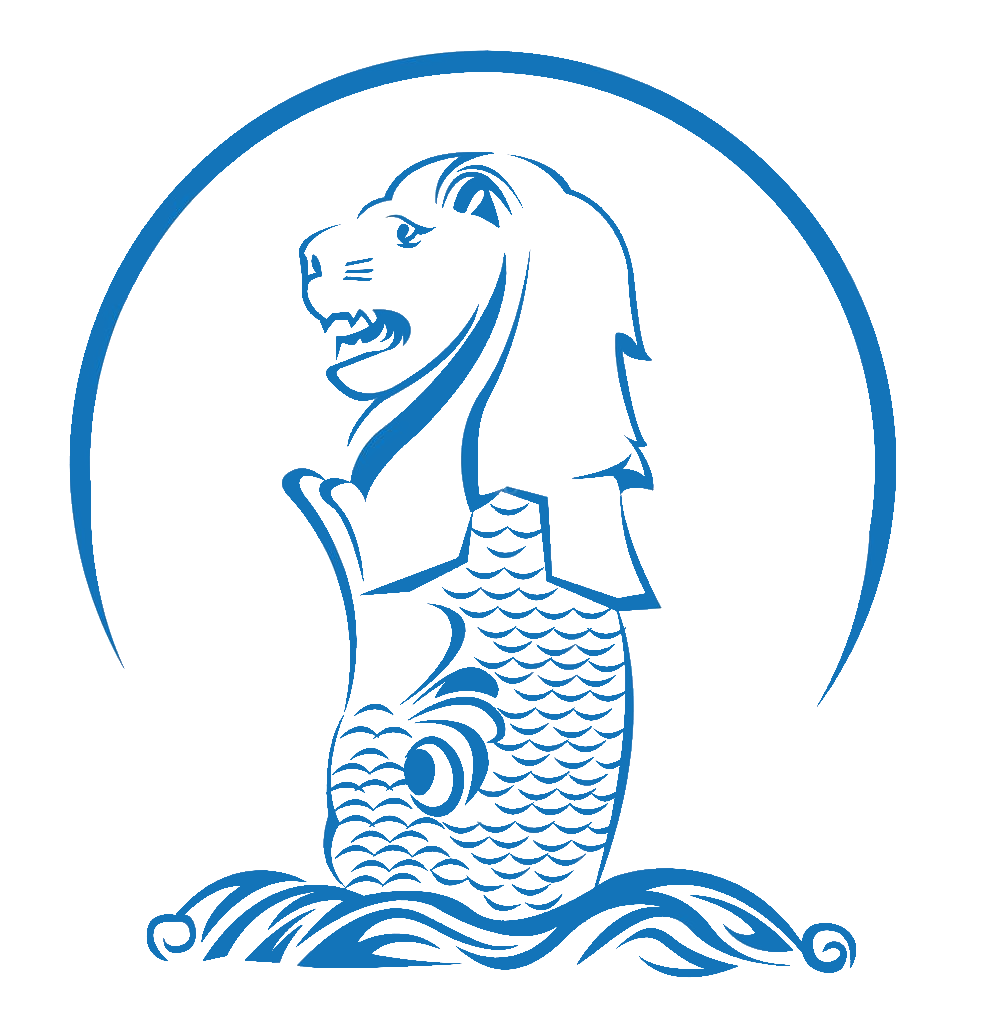
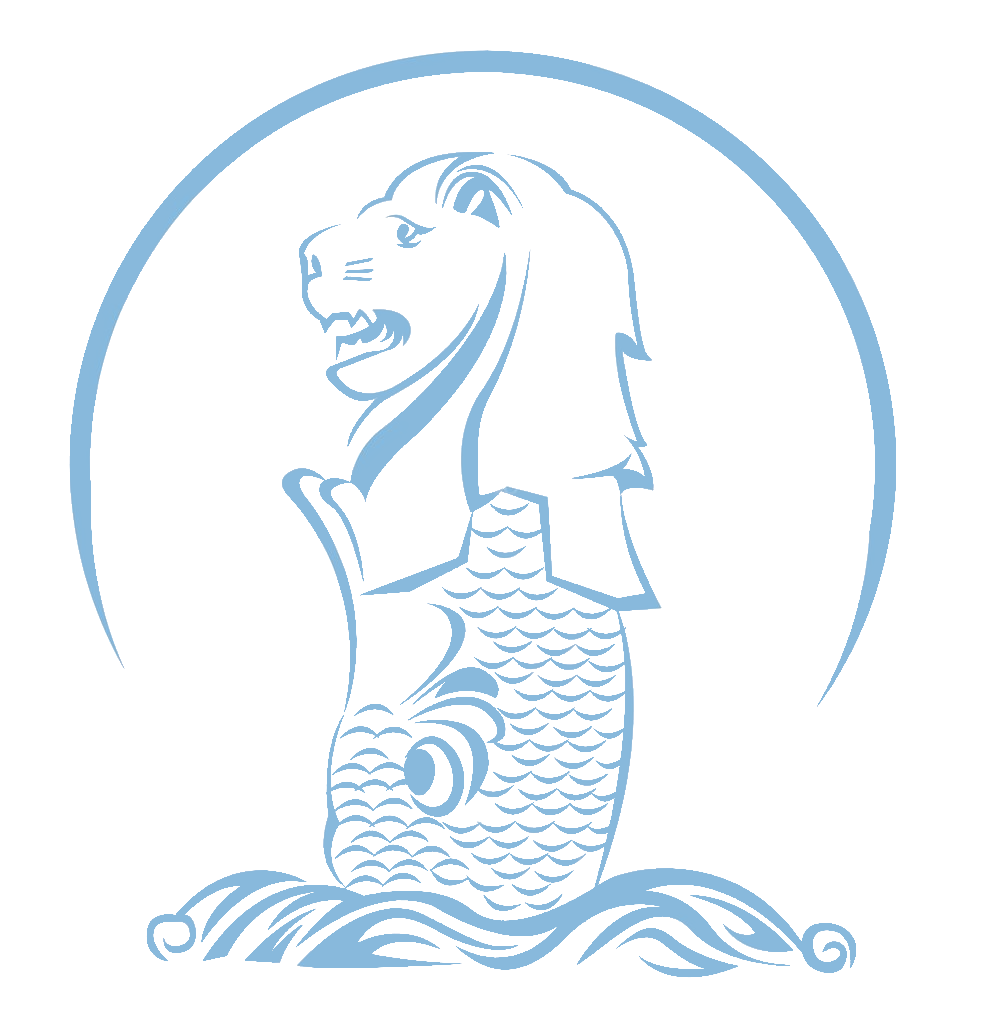
Updating background image transparency

diff --git a/assets/css/base.sass b/assets/css/base.sass
@@ -192,7 +192,7 @@ body
       margin-left: 0
       list-style: none
       li
-        padding: 1vw 0
+        padding: .5vw 0
       img
         width: calc(12px + 2.5vw)
         filter: invert(100%)
